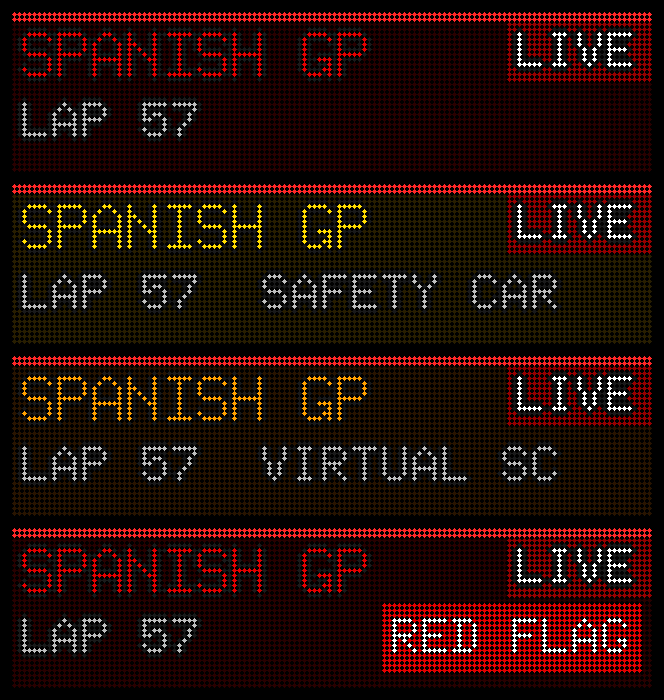
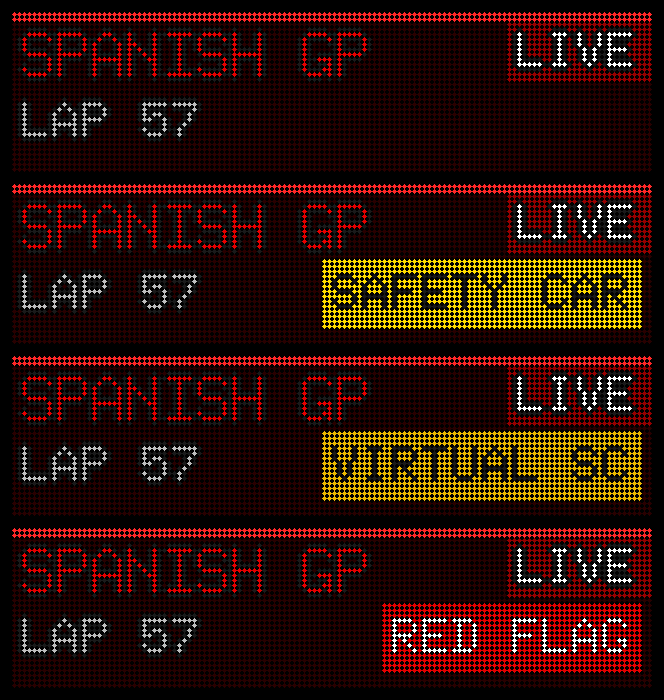
F1 Live 1.2.1: the safety car and VSC get badges like the red flag.
The live header keeps its usual colours for every flag. SAFETY CAR is a
yellow badge and VIRTUAL SC a darker yellow one, both in dark letters at
the end of the second line, as RED FLAG already was. They shorten to SC
and VSC where the full words would cut the line. Deployed to the wall at
22:59; test_live_header.py rewritten (55 checks); flags.png re-drawn.

Changed region(s): [[0.0, 0.27, 0.994, 0.51], [0.3916, 0.54, 0.9639, 0.72], [0.0301, 0.54, 0.3916, 0.6]]

diff --git a/f1_renderer.py b/f1_renderer.py
@@ -123,6 +123,10 @@ _LIVE_RAIL = (255, 40, 40)
 # Brighter than F1 red and a solid block, so it is the one thing on the card
 # that reads as an alarm.
 _RED_FLAG_BADGE = (230, 0, 0)
+# f1-live: the safety car's badge, and the VSC's in a darker yellow, both with
+# dark letters (asked for on 2026-09-13, like the red flag's).
+_SAFETY_CAR_BADGE = (255, 220, 0)
+_VSC_BADGE = (235, 185, 0)
 
 
 class F1Renderer:
@@ -1004,38 +1008,31 @@ class F1Renderer:
                            lap: Optional[int] = None,
                            session_label: Optional[str] = None) -> Image.Image:
         """f1-live: live_race header. Same furniture as the finished-race
-        name card. SC and VSC recolour the card and name themselves on the
-        second line. A red flag keeps the usual colours and gets a solid red
-        badge at the end of that line instead (design B, chosen 2026-09-12):
-        the card is red already, so recolouring it -- the first version --
-        barely showed.
+        name card. A flag keeps the usual colours and gets a solid badge at
+        the end of the second line. The red flag came first (design B, chosen
+        2026-09-12): the card is red already, so recolouring it -- the first
+        version -- barely showed. The safety car and the VSC recoloured the
+        card until 2026-09-13, when they were asked for as badges too:
+        SAFETY CAR in yellow, VIRTUAL SC in a darker yellow.
         """
-        color = F1_RED
-        bar = (40, 0, 0)
-        chip = (flag or "").upper()
-        status = ""
-        badge = None
-        if chip == "SC":
-            color, bar, status = (255, 220, 0), (40, 30, 0), "SAFETY CAR"
-        elif chip == "VSC":
-            color, bar, status = (255, 160, 0), (40, 20, 0), "VIRTUAL SC"
-        elif chip == "RED":
-            badge = ("RED FLAG", _RED_FLAG_BADGE, (255, 255, 255))
+        badge = {
+            # (text, fill, text colour[, short text for a crowded line])
+            "SC": ("SAFETY CAR", _SAFETY_CAR_BADGE, (0, 0, 0), "SC"),
+            "VSC": ("VIRTUAL SC", _VSC_BADGE, (0, 0, 0), "VSC"),
+            "RED": ("RED FLAG", _RED_FLAG_BADGE, (255, 255, 255)),
+        }.get((flag or "").upper())
 
-        # The lap count and any flag go on the second line, which this card
-        # already has and was not using. Cramming them into the title made it
-        # 133px against 124 available before the LIVE chip was even drawn, so
-        # the chip landed on top of a truncated "ITALIAN GP · S".
-        sub_bits = []
+        # The lap count and the flag's badge go on the second line, which
+        # this card already has and was not using. Cramming them into the
+        # title made it 133px against 124 available before the LIVE chip was
+        # even drawn, so the chip landed on top of a truncated "ITALIAN GP · S".
+        subtitle = ""
         if lap:
-            sub_bits.append("LAP %s" % lap)
+            subtitle = "LAP %s" % lap
         elif session_label:
             # Practice and qualifying have no lap counter, and the title is
             # the Grand Prix -- this is what says which session is on.
-            sub_bits.append(session_label.upper())
-        if status:
-            sub_bits.append(status)
-        subtitle = "  ".join(sub_bits)
+            subtitle = session_label.upper()
         if badge and not subtitle:
             subtitle = " "      # keep the two-line layout: the badge needs its line
 
@@ -1043,7 +1040,7 @@ class F1Renderer:
         probe = ImageDraw.Draw(Image.new("RGB", (1, 1)))
         chip_font = self.fonts["position"]
         chip_w = self._tw(probe, "LIVE", chip_font) + 5
-        img = self._render_session_header(title, subtitle, color, bar,
+        img = self._render_session_header(title, subtitle, F1_RED, (40, 0, 0),
                                           reserve_right=chip_w, badge=badge)
         draw = ImageDraw.Draw(img)
         draw.fontmode = "1"
@@ -1934,15 +1931,17 @@ class F1Renderer:
     def _render_session_header(self, title: str, subtitle: str,
                                title_color: tuple, bar_color: tuple,
                                reserve_right: int = 0,
-                               badge: Optional[Tuple[str, tuple, tuple]] = None) -> Image.Image:
+                               badge: Optional[Tuple] = None) -> Image.Image:
         """Shared layout for the qualifying/practice/sprint intro headers:
         colored top bar + F1 logo + title (+ optional subtitle). On tall panels
         the content group is vertically centered and the bar grows to contain it
         so the header fills the height instead of clustering at the top.
 
-        f1-live: ``badge`` -- (text, fill, text colour) -- is drawn as a solid
-        block at the right end of the subtitle line, and the subtitle is cut
-        short of it (the red flag on the live header, 2026-09-12)."""
+        f1-live: ``badge`` -- (text, fill, text colour[, short text]) -- is
+        drawn as a solid block at the right end of the subtitle line, and the
+        subtitle is cut short of it: the flags on the live header (the red
+        flag 2026-09-12, the safety car and VSC 2026-09-13). The short text,
+        if given, replaces the full one where that would cut the subtitle."""
         img = Image.new("RGBA", (self.display_width, self.display_height), (0, 0, 0, 255))
         draw = ImageDraw.Draw(img)
         # Disable anti-aliasing: pixel/bitmap fonts (e.g. PressStart2P) get
@@ -2014,8 +2013,16 @@ class F1Renderer:
             room = self.display_width - 4
             if badge:
                 # Leave the badge its width plus a gap, so a long session name
-                # is cut short of it rather than disappearing under it.
-                room -= self._tw(draw, badge[0], sub_font) + 8
+                # is cut short of it rather than disappearing under it. Its
+                # short text, if it has one, where the full one would cut the
+                # line: VSC beside PRACTICE 3, or SC beside the lap on a 64px
+                # card.
+                text = badge[0]
+                if len(badge) > 3 and (self._tw(draw, subtitle, sub_font)
+                                       > room - self._tw(draw, text, sub_font) - 8):
+                    text = badge[3]
+                badge = (text,) + tuple(badge[1:3])
+                room -= self._tw(draw, text, sub_font) + 8
             sub = self._truncate(draw, subtitle, sub_font, room)
             if ry + 5 < self.display_height:
                 self._draw_text_outlined(draw, (2, ry), sub, sub_font,
@@ -2026,7 +2033,8 @@ class F1Renderer:
 
     def _draw_badge(self, draw: ImageDraw.ImageDraw, y: int, badge, font) -> None:
         """f1-live: a solid block with text, right-aligned on the line at y --
-        the red flag's badge on the live header (design B, 2026-09-12)."""
+        a flag's badge on the live header (design B: the red flag 2026-09-12,
+        the safety car and VSC 2026-09-13)."""
         text, fill, text_fill = badge
         x = self.display_width - self._tw(draw, text, font) - 4
         box = draw.textbbox((x, y), text, font=font)

diff --git a/README.md b/README.md
@@ -1,6 +1,6 @@
 # F1 Live
 
-**Version 1.2.0** (2026-09-13) · by [BigC07](https://github.com/BigC07)
+**Version 1.2.1** (2026-09-13) · by [BigC07](https://github.com/BigC07)
 
 A Formula 1 plugin for [LEDMatrix](https://github.com/ChuckBuilds/LEDMatrix) with **live timing
 from F1's own feed**: the running order during races, qualifying and practice, flags as they
@@ -22,10 +22,10 @@ to the car ahead, places gained since the start, and a red rail along the top of
 
 ![The live board: SPANISH GP, LAP 57, then Antonelli leading, Verstappen, Norris and Leclerc](docs/images/live-board.png)
 
-**Flags** recolour the live header: as normal, the safety car, the virtual safety car, and a red
-flag.
+**Flags** get a badge on the live header, which keeps its colours: as normal, the safety car,
+the virtual safety car, and a red flag.
 
-![The live header as normal, with SAFETY CAR in yellow, VIRTUAL SC in orange, and a RED FLAG badge](docs/images/flags.png)
+![The live header as normal, then with a yellow SAFETY CAR badge, a darker yellow VIRTUAL SC badge, and a red RED FLAG badge](docs/images/flags.png)
 
 **The fastest lap** gets a purple stopwatch and its time. Audi's rings and Cadillac's crest are
 drawn for the panel, and a lapped car says so.
@@ -51,7 +51,8 @@ drawn for the panel, and a lapped car says so.
   to the leader). Lapped and retired cars are labelled, places gained are shown, and a red rail
   along the top marks every live card. Practice and qualifying show the time to beat and each
   driver's gap to it.
-- **Flags.** A RED FLAG badge, SAFETY CAR in yellow and VIRTUAL SC in orange on the live header.
+- **Flags.** A badge on the live header: SAFETY CAR in yellow, VIRTUAL SC in a darker yellow,
+  RED FLAG in red.
 - **Fastest lap.** A purple stopwatch and the lap time on the holder's row.
 - **Results between sessions.** A finished practice or qualifying stays at the front, drawn like
   the Q3 cards, until the next session goes live. Qualifying goes when its race starts.
@@ -140,6 +141,9 @@ printf WINNER > ~/LEDMatrix/plugin-repos/f1-live/alert-test
 ```
 
 ## Versions
+
+**1.2.1** (2026-09-13): the safety car and the virtual safety car get a badge like the red
+flag's, in yellow and a darker yellow, and the live header keeps its colours.
 
 **1.2.0** (2026-09-13): ready for the plugin store's review. The display modes are
 `f1_live_*`, so they no longer collide with F1 Scoreboard's when both are installed; an
